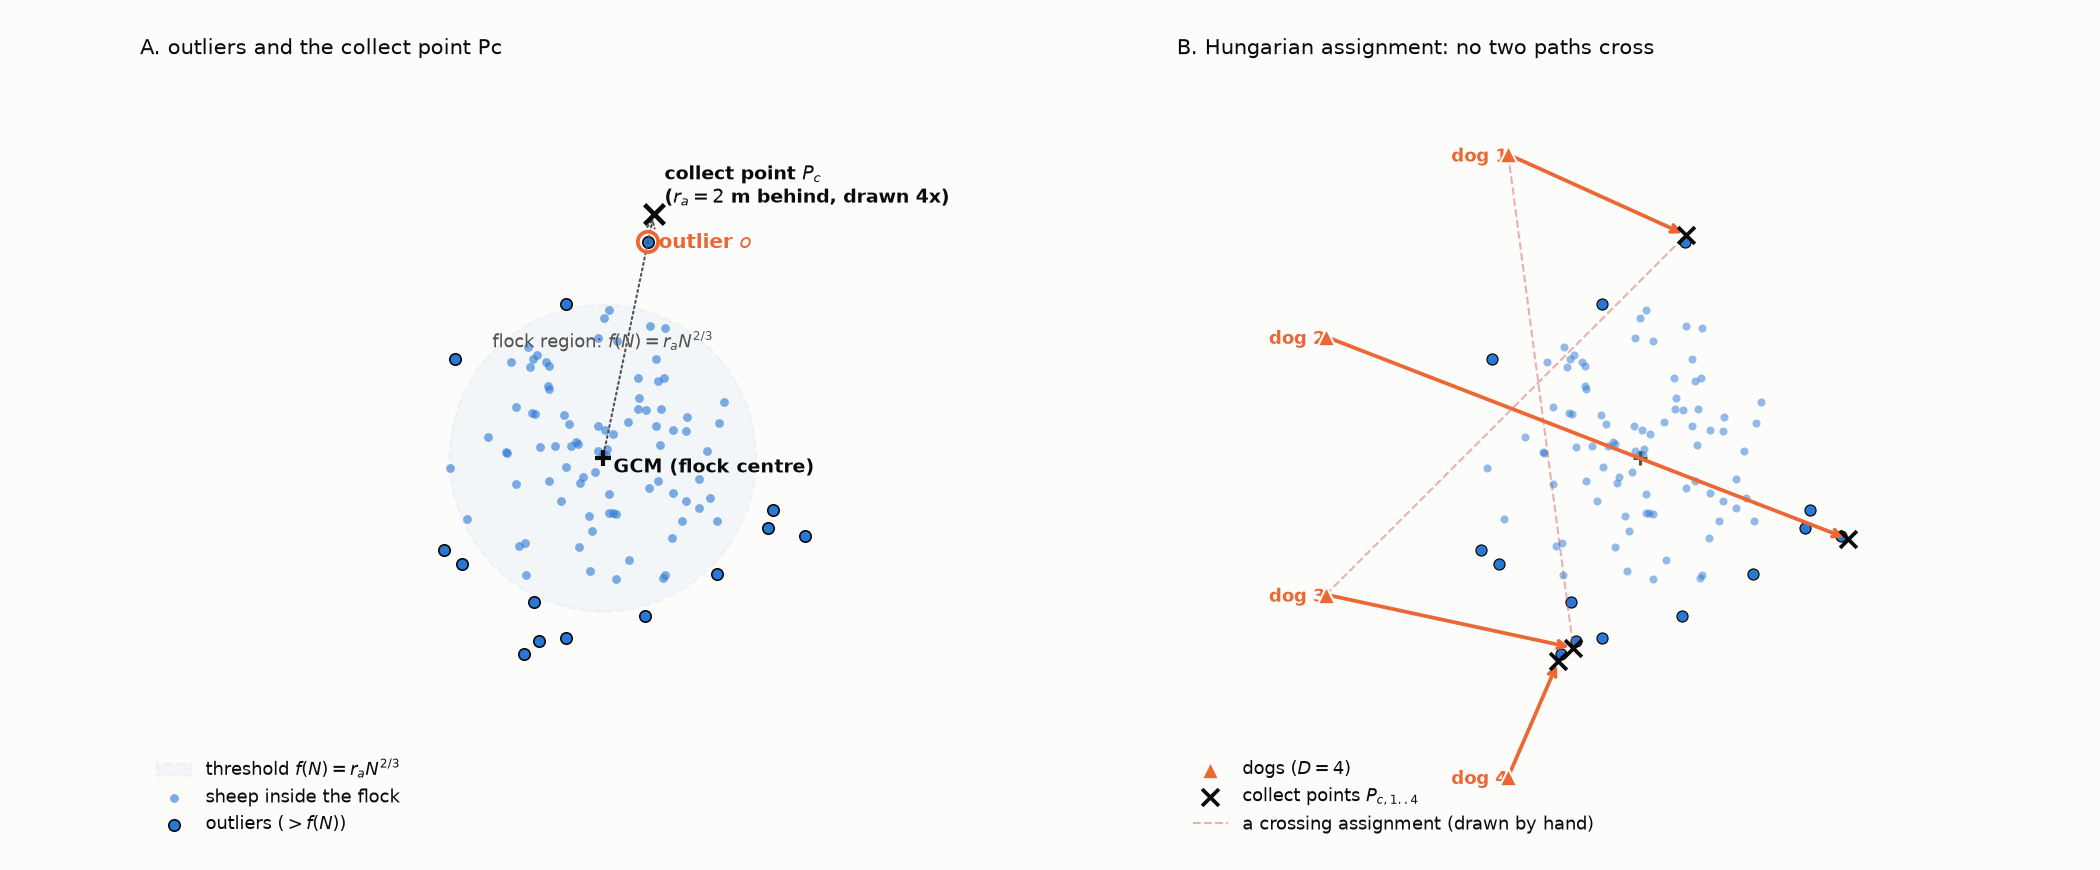
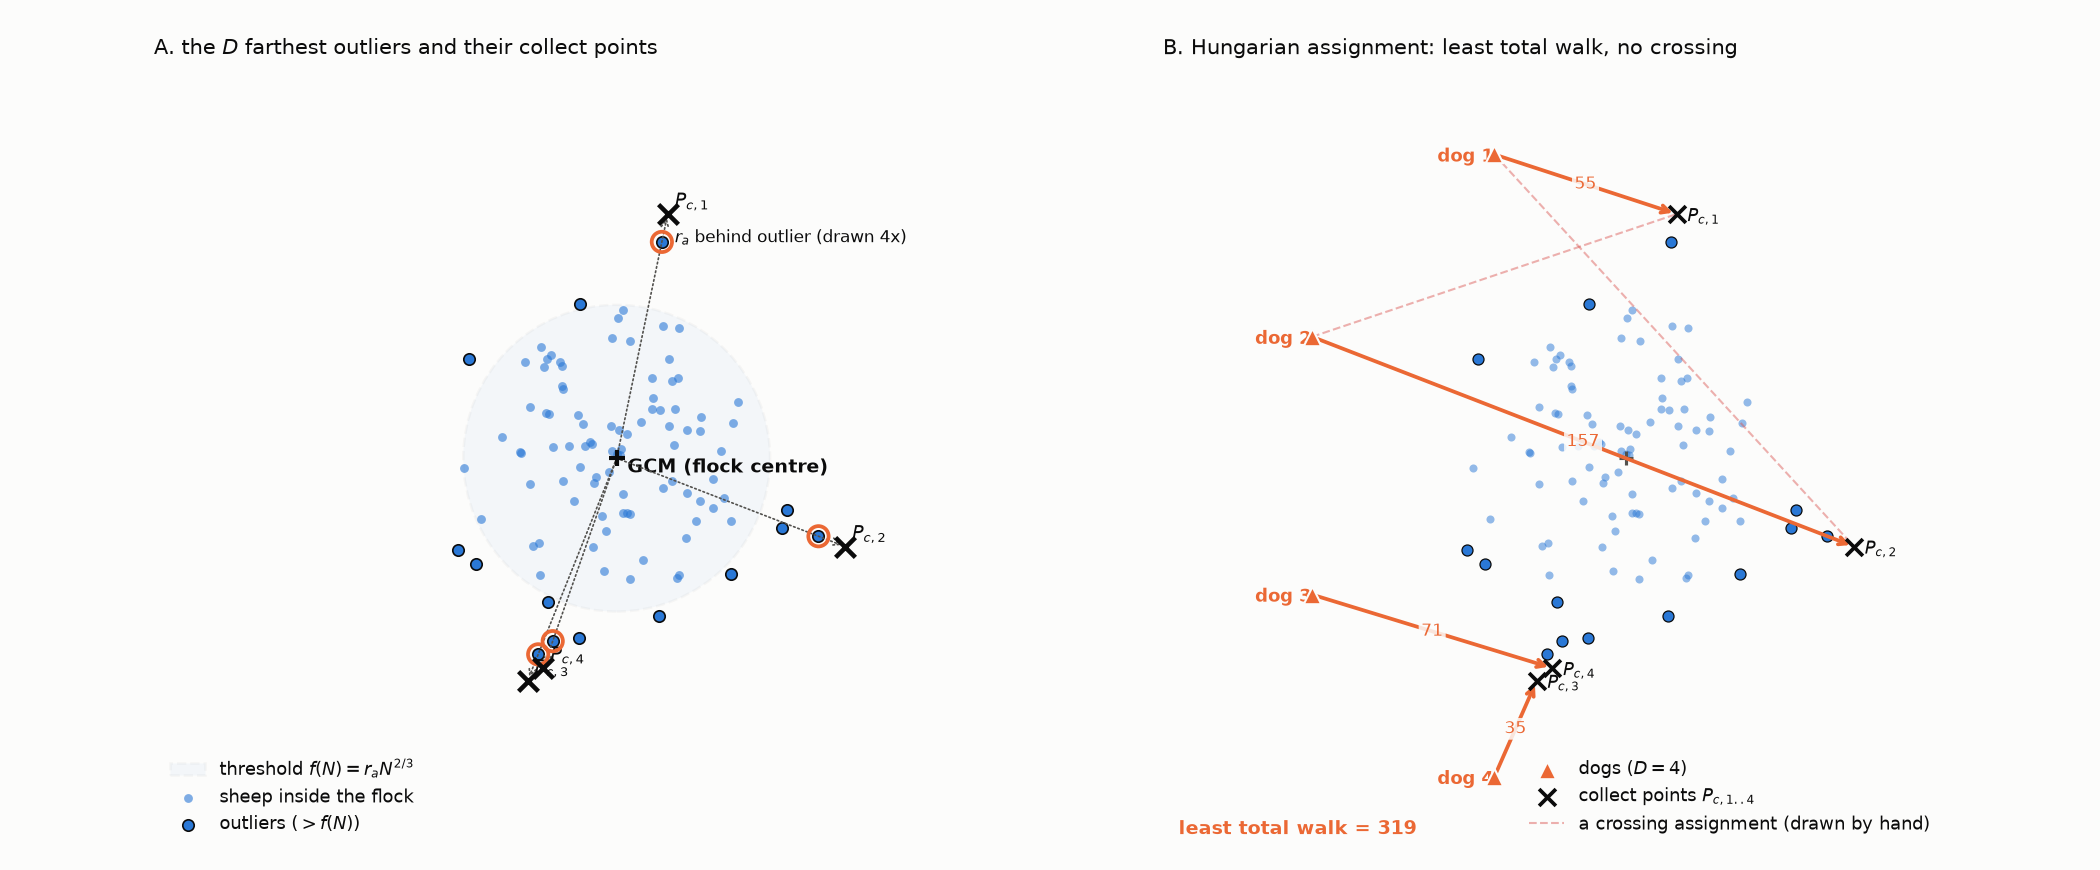
add algorithm hungarian

diff --git a/docs/generate_docs/figures.py b/docs/generate_docs/figures.py
@@ -14,6 +14,8 @@ from matplotlib import pyplot as plt
 from matplotlib.axes import Axes
 from matplotlib.lines import Line2D
 from matplotlib.patches import Circle, Rectangle
+from scipy.optimize import linear_sum_assignment
+from scipy.spatial.distance import cdist
 
 from analysis.results import flock_radii
 from docs.generate_docs.figstyle import (
@@ -700,18 +702,28 @@ def fig_independent() -> None:
 
 
 def fig_hungarian_matching() -> None:
-    """Outliers and Pc (left); Hungarian matching vs a crossing assignment (right)."""
+    """How collect_drive_multi assigns dogs: D farthest outliers and Pc (left); least-total
+    walk matching from linear_sum_assignment (right), against a crossing assignment."""
     n, d = 100, 4
     c = cfg("wide", n, d)
     sheep, dogs = start(c)
     goal = np.asarray(c["goal_center"])
-    centroid = sheep.mean(axis=0)
+    decision = decide(sheep, goal, c)
+    centroid = decision.centroid
     thresh = collect_threshold(n, c["r_a"])
-    dists = np.linalg.norm(sheep - centroid, axis=1)
-    far = dists > thresh
-    stray = sheep[np.argsort(dists)[::-1][0]]
-    # drawn four times farther out than the real r_a, or the cross would sit on the sheep
-    pc_pos = stray + float(c["r_a"]) * 4.0 * unit(stray - centroid)
+    far = np.linalg.norm(sheep - centroid, axis=1) > thresh
+    # Same steps as team_targets in collect mode: D farthest outliers, Pc, then assignment.
+    jobs = decision.outliers[:d]
+    points = np.array([behind(sheep[o], centroid, float(c["r_a"])) for o in jobs])
+    # Drawn 4x farther than r_a so the cross is readable next to the sheep.
+    points_drawn = np.array(
+        [sheep[o] + 4.0 * float(c["r_a"]) * unit(sheep[o] - centroid) for o in jobs]
+    )
+    costs = cdist(dogs, points)
+    rows, cols = linear_sum_assignment(costs)
+    assert np.allclose(team_targets(sheep, goal, dogs, c)[rows], points[cols]), (
+        "figure disagrees with collect_drive_multi.team_targets"
+    )
     fig, axes = plt.subplots(1, 2, figsize=(14, 5.8))
 
     ax0 = axes[0]
@@ -747,42 +759,71 @@ def fig_hungarian_matching() -> None:
         fontsize=9,
         fontweight="bold",
     )
-    arrow(ax0, pc_pos, centroid, MUTED, 1.0, ls=":")
-    ax0.scatter(*stray, s=95, facecolors="none", ec=ORANGE, lw=1.8, zorder=4)
+    for k, (o, pc) in enumerate(zip(jobs, points_drawn)):
+        ax0.scatter(*sheep[o], s=95, facecolors="none", ec=ORANGE, lw=1.8, zorder=4)
+        ax0.scatter(*pc, s=90, marker="x", color=INK, lw=2.2, zorder=5)
+        arrow(ax0, pc, centroid, MUTED, 0.8, ls=":")
+        ax0.text(
+            pc[0] + 2,
+            pc[1] + 2,
+            f"$P_{{c,{k + 1}}}$",
+            color=INK,
+            fontsize=9,
+            fontweight="bold",
+        )
     ax0.text(
-        stray[0] + 3, stray[1] - 2, r"outlier $o$", color=ORANGE, fontsize=9.5, fontweight="bold"
-    )
-    ax0.scatter(*pc_pos, s=90, marker="x", color=INK, lw=2.2, zorder=5)
-    ax0.text(
-        pc_pos[0] + 3,
-        pc_pos[1] + 3,
-        r"collect point $P_c$" + "\n" + r"($r_a = 2$ m behind, drawn 4x)",
+        points_drawn[0, 0] + 2,
+        points_drawn[0, 1] - 8,
+        r"$r_a$ behind outlier (drawn 4x)",
         color=INK,
-        fontsize=9,
-        fontweight="bold",
-    )
-    ax0.text(
-        centroid[0] - thresh * 0.72,
-        centroid[1] + thresh * 0.72,
-        r"flock region: $f(N) = r_a N^{2/3}$",
-        color=MUTED,
-        fontsize=8.5,
+        fontsize=8,
     )
     ax0.legend(loc="lower left", frameon=False, fontsize=8.5)
     window(ax0, centroid, 130, 90, 110, 110)
-    style_map(ax0, "A. outliers and the collect point Pc")
+    style_map(ax0, "A. the $D$ farthest outliers and their collect points")
 
     ax1 = axes[1]
-    targets = team_targets(sheep, goal, dogs, c)
     flock_split(ax1, sheep, far, s_in=15, s_out=28, lw_out=0.6, alpha_in=0.5)
     gcm(ax1, centroid, label=None, s=50, lw=1.5, color=MUTED, zorder=3)
     dogs_at(ax1, dogs, s=70, lw=1.0, zorder=5, label="dogs ($D = 4$)")
-    targets_at(ax1, targets, s=65, lw=1.8, zorder=5, label="collect points $P_{c,1..4}$")
-    for dog, tgt in zip(dogs, targets):
-        arrow(ax1, tgt, dog, ORANGE, 1.8)
+    targets_at(ax1, points_drawn, s=65, lw=1.8, zorder=5, label="collect points $P_{c,1..4}$")
+    total = 0.0
+    for dog_i, pc_i in zip(rows, cols):
+        dog, pc = dogs[dog_i], points_drawn[pc_i]
+        dist = float(costs[dog_i, pc_i])
+        total += dist
+        arrow(ax1, pc, dog, ORANGE, 1.8)
+        mid = (dog + pc) / 2
+        ax1.text(
+            mid[0],
+            mid[1],
+            f"{dist:.0f}",
+            color=ORANGE,
+            fontsize=8,
+            ha="center",
+            va="center",
+            bbox=dict(boxstyle="round,pad=0.15", fc=SURFACE, ec="none", alpha=0.85),
+        )
+        ax1.text(
+            dog[0] - 16,
+            dog[1] - 2,
+            f"dog {dog_i + 1}",
+            color=ORANGE,
+            fontsize=8.5,
+            fontweight="bold",
+        )
+        ax1.text(
+            pc[0] + 3,
+            pc[1] - 2,
+            f"$P_{{c,{pc_i + 1}}}$",
+            color=INK,
+            fontsize=8.5,
+            fontweight="bold",
+        )
+    # A hand-drawn crossing pair, to show what the least-total walk avoids.
     ax1.plot(
-        [dogs[0, 0], targets[2, 0]],
-        [dogs[0, 1], targets[2, 1]],
+        [dogs[rows[0], 0], points_drawn[cols[1], 0]],
+        [dogs[rows[0], 1], points_drawn[cols[1], 1]],
         color=RED,
         ls="--",
         lw=1.0,
@@ -790,20 +831,25 @@ def fig_hungarian_matching() -> None:
         label="a crossing assignment (drawn by hand)",
     )
     ax1.plot(
-        [dogs[2, 0], targets[0, 0]],
-        [dogs[2, 1], targets[0, 1]],
+        [dogs[rows[1], 0], points_drawn[cols[0], 0]],
+        [dogs[rows[1], 1], points_drawn[cols[0], 1]],
         color=RED,
         ls="--",
         lw=1.0,
         alpha=0.45,
     )
-    for i, dog in enumerate(dogs):
-        ax1.text(
-            dog[0] - 16, dog[1] - 2, f"dog {i + 1}", color=ORANGE, fontsize=8.5, fontweight="bold"
-        )
-    ax1.legend(loc="lower left", frameon=False, fontsize=8.5)
+    ax1.text(
+        0.02,
+        0.02,
+        f"least total walk = {total:.0f}",
+        transform=ax1.transAxes,
+        color=ORANGE,
+        fontsize=9,
+        fontweight="bold",
+    )
+    ax1.legend(loc="lower right", frameon=False, fontsize=8.5)
     window(ax1, centroid, 130, 90, 110, 110)
-    style_map(ax1, "B. Hungarian assignment: no two paths cross")
+    style_map(ax1, "B. Hungarian assignment: least total walk, no crossing")
     save(fig, "fig_hungarian_matching.png", rect=(0, 0, 1, 0.98))
 
 

diff --git a/README.md b/README.md
@@ -5,13 +5,13 @@
 [![Tests](https://img.shields.io/badge/tests-make%20check-brightgreen.svg)](tests/)
 [![Trials](https://img.shields.io/badge/simulated%20trials-439%2C120-success.svg)](results/)
 
-This README covers setting up and running HerdSim and how the study is organised; the results are in the [report](docs/report/d_min_report.md) and the terms in the [glossary](docs/glossary.md).
+HerdSim is an open-source herding simulator, and a study of how large a dog team needs to be.
 
-One sheepdog can bring a flock whose sheep stay together into a pen. When the sheep start scattered and the job has a deadline, one dog cannot reach every stray sheep in time. HerdSim is an open-source simulator, and a study run with it, that asks how many dogs such a task needs and whether more dogs always help ([report part 3](docs/report/part3_beyond_dmin.md)). It runs the sheep model of Strombom et al. (2014) and counts how often a team of $D$ dogs brings a flock of $N$ sheep into a goal before a deadline, beside the other methods in Table 1 below.
+One dog can pen a flock that stays together. Scatter the sheep and put a clock on the job, and one dog often cannot reach every stray in time. This project asks how many dogs that task needs, and whether adding more always helps. Most runs use the sheep of Strombom et al. (2014) and count how often a team of $D$ dogs gets $N$ sheep into a goal before a deadline. The other methods in the study are in Table 1. Results are in the report; terms are in the glossary.
 
 ## Task and methods
 
-HerdSim moves sheep and dogs over an open field one time step, a [tick](docs/glossary.md#trials-and-experiments), at a time. The dogs have one of two tasks, drive or gather, each with a deadline.
+HerdSim moves sheep and dogs over an open field one time step, a tick, at a time. The dogs have one of two tasks: drive or gather, each with a deadline.
 
 In the drive task the dogs bring the flock into a circular goal. The deadline is counted in drive times; one drive time is what a sheep walking straight at 1 m/s needs to cover the drive distance, from the flock's start centre to the goal centre. The study uses 12, 6 and 3 drive times.
 
@@ -21,14 +21,14 @@ A sheep farther from the flock centre than the collect distance, $2 N^{2/3}$ m, 
 
 Strombom's dog has two jobs. While there are outliers it collects them back to the flock; otherwise it drives the whole flock toward the goal.
 
-The flock starts in one of four [layouts](docs/experiments/task_design.md#flock-start-layouts):
+The flock starts in one of four layouts:
 
 - `compact`: a tight flock.
 - `wide`: a loose flock in which about 13% of the sheep start beyond the collect distance.
 - `split`: three compact clusters.
 - `outlier_rich`: a compact flock with 20% of the sheep on a ring beyond the collect distance.
 
-In the gather task, from Lama and di Bernardo (2024), sheep and dogs (targets and herders in the paper) start spread evenly over a disc of radius 50, the `uniform` layout. A trial succeeds when 99% of the targets and every herder are inside a goal of radius 10 at the disc's centre ([gather task](docs/experiments/task_design.md#when-a-trial-ends-and-what-counts-as-success)).
+In the gather task, from Lama and di Bernardo (2024), sheep and dogs (targets and herders in the paper) start spread evenly over a disc of radius 50, the `uniform` layout. A trial succeeds when 99% of the targets and every herder are inside a goal of radius 10 at the disc's centre (gather task).
 
 A method pairs a sheep model with a dog controller, the rule each dog follows. Table 1 lists the five methods:
 
@@ -42,32 +42,32 @@ A method pairs a sheep model with a dog controller, the rule each dog follows. T
 | `kubo` | Kubo et al. (2022), smooth forces | `kubo_forces`: Kubo's forces, with repulsion between dogs | drive, `compact` only | A sheep model in which more dogs shorten the drive ([part 4](docs/report/part4_coordination.md)) |
 | `lama` | Lama and di Bernardo (2024), random walkers with no cohesion | `lama_herders` (below) | gather | The paper's square-root law, a smallest team growing as $\sqrt{N}$ ([part 6](docs/report/part6_square_root_law.md)) |
 
-Two controllers need more than a clause ([team rule](docs/methods/strombom_multi.md), [Lama herders](docs/methods/lama.md#lama-herders)):
+Two controllers need more than a clause (team rule, Lama herders):
 
-- `collect_drive_multi`: while collecting, the Hungarian algorithm (an optimal one-to-one assignment) pairs dogs with the $D$ farthest outliers at the least total distance. Spare dogs drive the sheep within the collect distance. While driving, the dogs stand on an arc behind the flock.
+- `collect_drive_multi`: while collecting, the [Hungarian algorithm](https://en.wikipedia.org/wiki/Hungarian_algorithm) (an optimal one-to-one assignment) pairs dogs with the $D$ farthest outliers at the least total distance. Spare dogs drive the sheep within the collect distance. While driving, the dogs stand on an arc behind the flock.
 - `lama_herders`: each herder takes the target farthest from the goal centre among those within its sensing radius, skipping any target closer to another herder it senses.
 
-A protocol is the recipe of one experiment (a YAML file): the methods, flock sizes, team sizes, layouts, success rule and deadline to try ([protocol catalogue](docs/guides/protocols.md)). Its id names its settings. In `dmin_f99_m6`, `f99` means the 99% rule and `m6` a deadline of 6 drive times; ids without `f99` use the strict rule, except the gather protocols `lama_r50` and `lama_r50_inf`, which use the 99% rule ([protocol id](docs/glossary.md#trials-and-experiments)).
+A protocol is the recipe of one experiment (a YAML file): the methods, flock sizes, team sizes, layouts, success rule and deadline to try (protocol catalogue). Its id names its settings. In `dmin_f99_m6`, `f99` means the 99% rule and `m6` a deadline of 6 drive times; ids without `f99` use the strict rule, except the gather protocols `lama_r50` and `lama_r50_inf`, which use the 99% rule (protocol id).
 
-Figure 1 and Animation 1 start from the same `wide` flock ([seed](docs/glossary.md#trials-and-experiments)).
+Figure 1 and Animation 1 start from the same `wide` flock (seed).
 
 ![One simulation trial](docs/figures/fig17_trial.png)
 
 **Figure 1: One trial in HerdSim ($N = 200$ sheep, $D = 4$ dogs, `wide` start, seed 2026, strict rule, 1500-tick limit), at ticks 0, 55, 139 and 279.** The dogs start on an arc behind the flock, gather it from several sides, then drive it from behind into the goal.
 
-- Marks: the green circle is the goal, of radius 1.9 times the flock radius [$R_f$](docs/glossary.md#the-drive-task); orange triangles are dogs, with their tracks; blue dots are sheep.
+- Marks: the green circle is the goal, of radius 1.9 times the flock radius $R_f$; orange triangles are dogs, with their tracks; blue dots are sheep.
 
 ## How the study is organised
 
 Inside a protocol the data has three levels:
 
-- Curve: one setup, such as `wide` starts of 200 sheep with the team rule, tried at each team size. A protocol that sweeps a [factor](docs/glossary.md#trials-and-experiments), a setting such as the goal size, has a curve for each of its values.
+- Curve: one setup, such as `wide` starts of 200 sheep with the team rule, tried at each team size. A protocol that sweeps a factor, a setting such as the goal size, has a curve for each of its values.
 - Cell: one team size on a curve, asking a question such as "can 3 dogs herd 200 sheep in this setup?".
 - Trial: one run of the task in that cell, with one random seed.
 
-The study ran in two stages: 23 protocols in the first study and 18 in the follow-up, 439,120 trials with no simulation errors ([run record](docs/report/appendix_run_record.md#appendix-a-protocol-run-record)). The follow-up asks further questions, mostly under the 99% rule, and resumed the first study's 99% runs at 12, 6 and 3 drive times.
+The study ran in two stages: 23 protocols in the first study and 18 in the follow-up, 439,120 trials with no simulation errors (run record). The follow-up asks further questions, mostly under the 99% rule, and resumed the first study's 99% runs at 12, 6 and 3 drive times.
 
-A cell is reliable when the lower end of the 99% Clopper-Pearson interval of its success rate is at least theta = 0.90, that is, its success rate is at least 0.90 at 99% confidence; it is undecided while the interval straddles theta ([reliable cell](docs/glossary.md#success-and-reliability)). The study's main measure, $D_{\min}$, is the smallest reliable team on a curve; the glossary defines the other [team sizes](docs/glossary.md#team-sizes).
+A cell is reliable when the lower end of the 99% Clopper-Pearson interval of its success rate is at least theta = 0.90, that is, its success rate is at least 0.90 at 99% confidence; it is undecided while the interval straddles theta (reliable cell). The study's main measure, $D_{\min}$, is the smallest reliable team on a curve; the glossary defines the other team sizes.
 
 ## Setup and tests
 
@@ -96,11 +96,11 @@ uv run cli/dmin_tables.py record                             # trials, cells, er
 uv run cli/dmin_tables.py dmin dmin_m12 dmin_m6 dmin_m3      # smallest reliable team per layout and N
 ```
 
-The last two commands read stored files and run no simulation. [`cli/README.md`](cli/README.md) gives the order to use the tools in, and the [CLI reference](docs/guides/cli_reference.md) every option and the commands that rewrite the [generated pages](docs/guides/cli_reference.md#generated-doc-pages-and-figures).
+The last two commands read stored files and run no simulation. [`cli/README.md`](cli/README.md) gives the order to use the tools in, and the [CLI reference](docs/guides/cli_reference.md) every option and the commands that rewrite the generated pages.
 
 ## Project architecture
 
-The tree lists the code's six [layers](docs/codes/architecture.md#layers), top to bottom; each imports only layers below it, and the engine and the analysis import no other layer. The engine is a sandbox that runs one trial and knows nothing of campaigns; the analysis reads stored files and never runs the model.
+The tree lists the code's six layers, top to bottom; each imports only layers below it, and the engine and the analysis import no other layer. The engine is a sandbox that runs one trial and knows nothing of campaigns; the analysis reads stored files and never runs the model.
 
 ```text
 HerdSim/
@@ -115,28 +115,46 @@ HerdSim/
 `-- tests/                  # unit, invariant and regression tests
 ```
 
-[Configuration](docs/guides/configuration.md) describes the canonical defaults, which a protocol keeps unless it names them, and the [physics hash](docs/guides/configuration.md#physics-hash) that ties a results folder to one physics.
+[Configuration](docs/guides/configuration.md) describes the canonical defaults, which a protocol keeps unless it names them, and the physics hash that ties a results folder to one physics.
 
 ## Documentation
 
-- [Report](docs/report/d_min_report.md): the results, decision rules and discussion, and the source for every number in these docs. The results are in six topic parts, listed in its [section 3](docs/report/d_min_report.md#3-results).
-- [Run record](docs/report/appendix_run_record.md): trials and hours per protocol, and how to reproduce the study.
-- [Glossary](docs/glossary.md): every term, linked to the section that explains it.
-- Methods, the equations of each sheep model and dog rule: [Strombom sheep](docs/methods/strombom_sheep.md), [team rule](docs/methods/strombom_multi.md), [FAT](docs/methods/fat.md), [independent](docs/methods/independent.md), [Kubo](docs/methods/kubo.md), [Lama](docs/methods/lama.md).
-- [Task design](docs/experiments/task_design.md): the field and goal sized by $R_f(N)$, the deadlines, the sizes tested and the gather task.
-- [Configuration](docs/guides/configuration.md): protocol inheritance, the follow-up settings and the result folders.
-- [CLI reference](docs/guides/cli_reference.md): every command, flag and default.
-- [Architecture](docs/codes/architecture.md): how the code is organised and why.
-- [Settings reference](docs/guides/settings.md): every canonical setting and its default (generated).
-- [Protocol catalogue](docs/guides/protocols.md): each protocol's grid and changed settings (generated).
-- [Result tables](docs/report/results_tables.md): tables from the stored runs (generated).
+**Overview**
 
-## References
+- [Glossary](docs/glossary.md)
 
-HerdSim implements the models of three papers:
+**Report**
 
-1. Strombom, D., et al. (2014). *Solving the shepherding problem: heuristics for herding autonomous, interacting agents*. Journal of the Royal Society Interface, 11(100), 20140719. [DOI: 10.1098/rsif.2014.0719](https://doi.org/10.1098/rsif.2014.0719)
-2. Kubo, M., Tashiro, M., Sato, H., Yamaguchi, A. (2022). *Herd guidance by multiple sheepdog agents with repulsive force*. Artificial Life and Robotics, 27, 416-427. [DOI: 10.1007/s10015-021-00726-7](https://doi.org/10.1007/s10015-021-00726-7)
-3. Lama, A., & di Bernardo, M. (2024). *Shepherding and herdability in complex multiagent systems*. Physical Review Research, 6, L032012. [DOI: 10.1103/PhysRevResearch.6.L032012](https://doi.org/10.1103/PhysRevResearch.6.L032012)
+- [Overview](docs/report/d_min_report.md)
+- [Part 1: growth of D_min](docs/report/part1_growth.md)
+- [Part 2: success rule](docs/report/part2_success_rule.md)
+- [Part 3: beyond D_min](docs/report/part3_beyond_dmin.md)
+- [Part 4: coordination](docs/report/part4_coordination.md)
+- [Part 5: failures](docs/report/part5_failures.md)
+- [Part 6: square-root law](docs/report/part6_square_root_law.md)
+- [Appendix: run record](docs/report/appendix_run_record.md)
+- [Result tables](docs/report/results_tables.md) (generated)
 
-The full list of works cited in the study is in the [report's references](docs/report/d_min_report.md#references).
+**Methods**
+
+- [Strombom sheep](docs/methods/strombom_sheep.md)
+- [Team rule](docs/methods/strombom_multi.md)
+- [FAT](docs/methods/fat.md)
+- [Independent](docs/methods/independent.md)
+- [Kubo](docs/methods/kubo.md)
+- [Lama](docs/methods/lama.md)
+
+**Experiments**
+
+- [Task design](docs/experiments/task_design.md)
+
+**Guides**
+
+- [Configuration](docs/guides/configuration.md)
+- [CLI reference](docs/guides/cli_reference.md)
+- [Settings](docs/guides/settings.md) (generated)
+- [Protocol catalogue](docs/guides/protocols.md) (generated)
+
+**Code**
+
+- [Architecture](docs/codes/architecture.md)

diff --git a/docs/methods/strombom_multi.md b/docs/methods/strombom_multi.md
@@ -35,8 +35,8 @@ The $D$ farthest outliers get one dog each. Dogs are matched to their collect po
 **Figure 2: Collecting.** Each outlier gets a collect point, and the Hungarian algorithm pairs dogs with collect points so that no two paths cross.
 
 - Marks: light blue dots are sheep within $f(N)$, dark-outlined dots outliers, the plus sign the GCM, crosses collect points, orange triangles dogs.
-- Left: the shaded disc is $f(N)$; each outlier's collect point lies on the ray from the GCM, drawn at $4 r_a$ behind the outlier.
-- Right: the assignment with the least total distance; the dashed lines are a constructed assignment that crosses.
+- Left: the shaded disc is $f(N)$; the $D$ farthest outliers each have a collect point on the ray from the GCM, drawn at $4 r_a$ behind the outlier.
+- Right: the assignment from `linear_sum_assignment` in `collect_drive_multi` (least total walk; numbers on the arrows are distances); the dashed lines are a constructed assignment that crosses.
 
 ![Animation of the team rule with each dog's target](../gifs/team_rule.gif)
 
